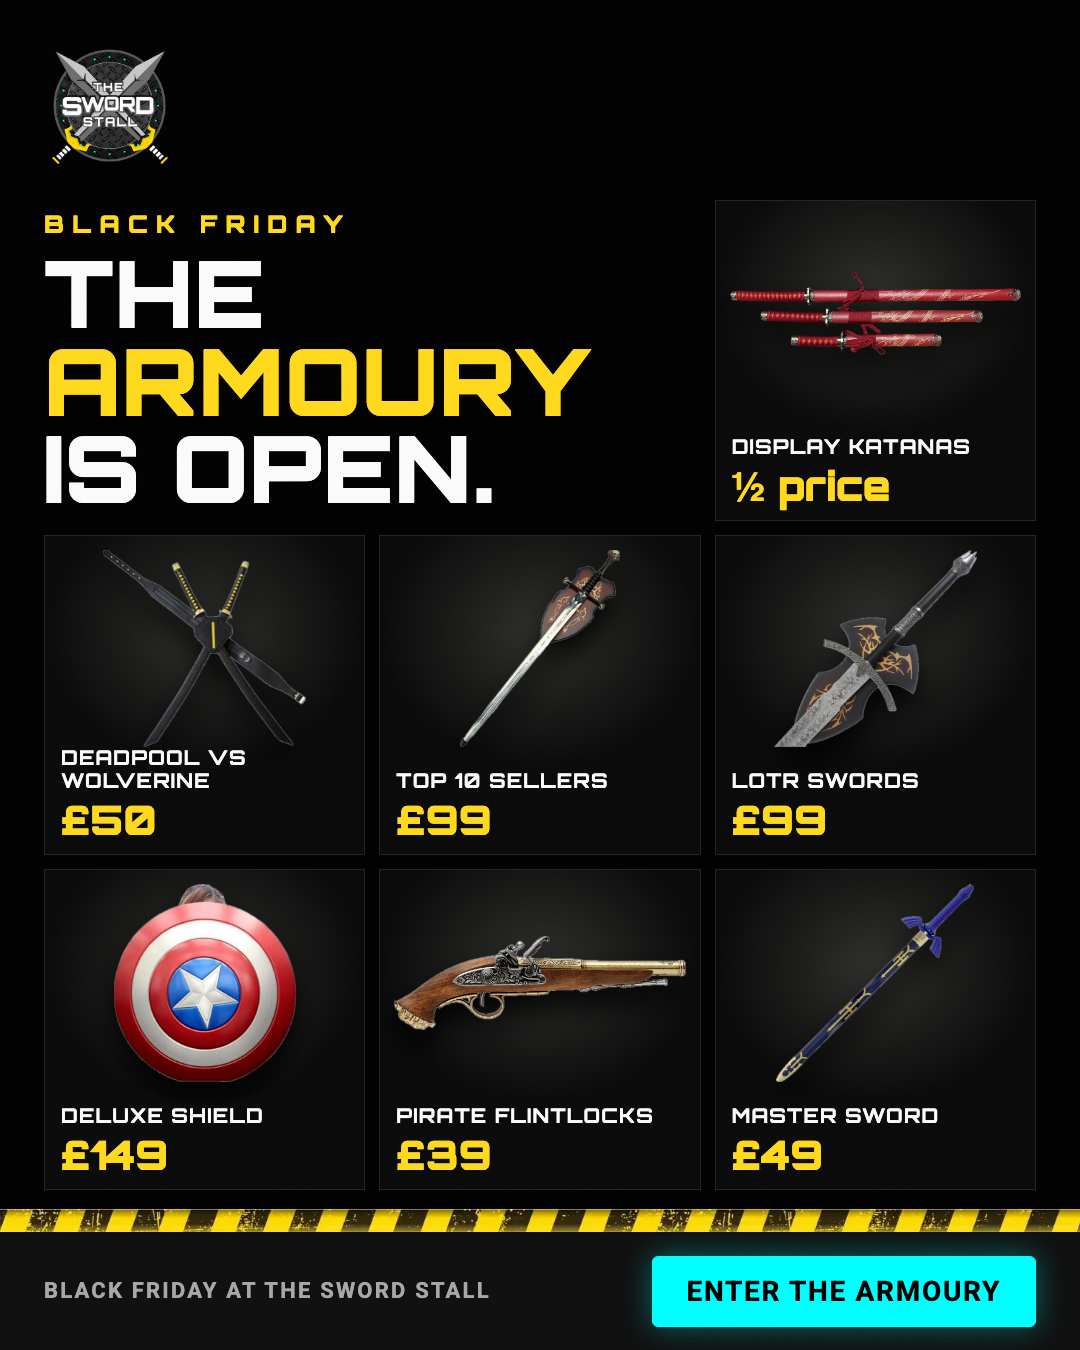
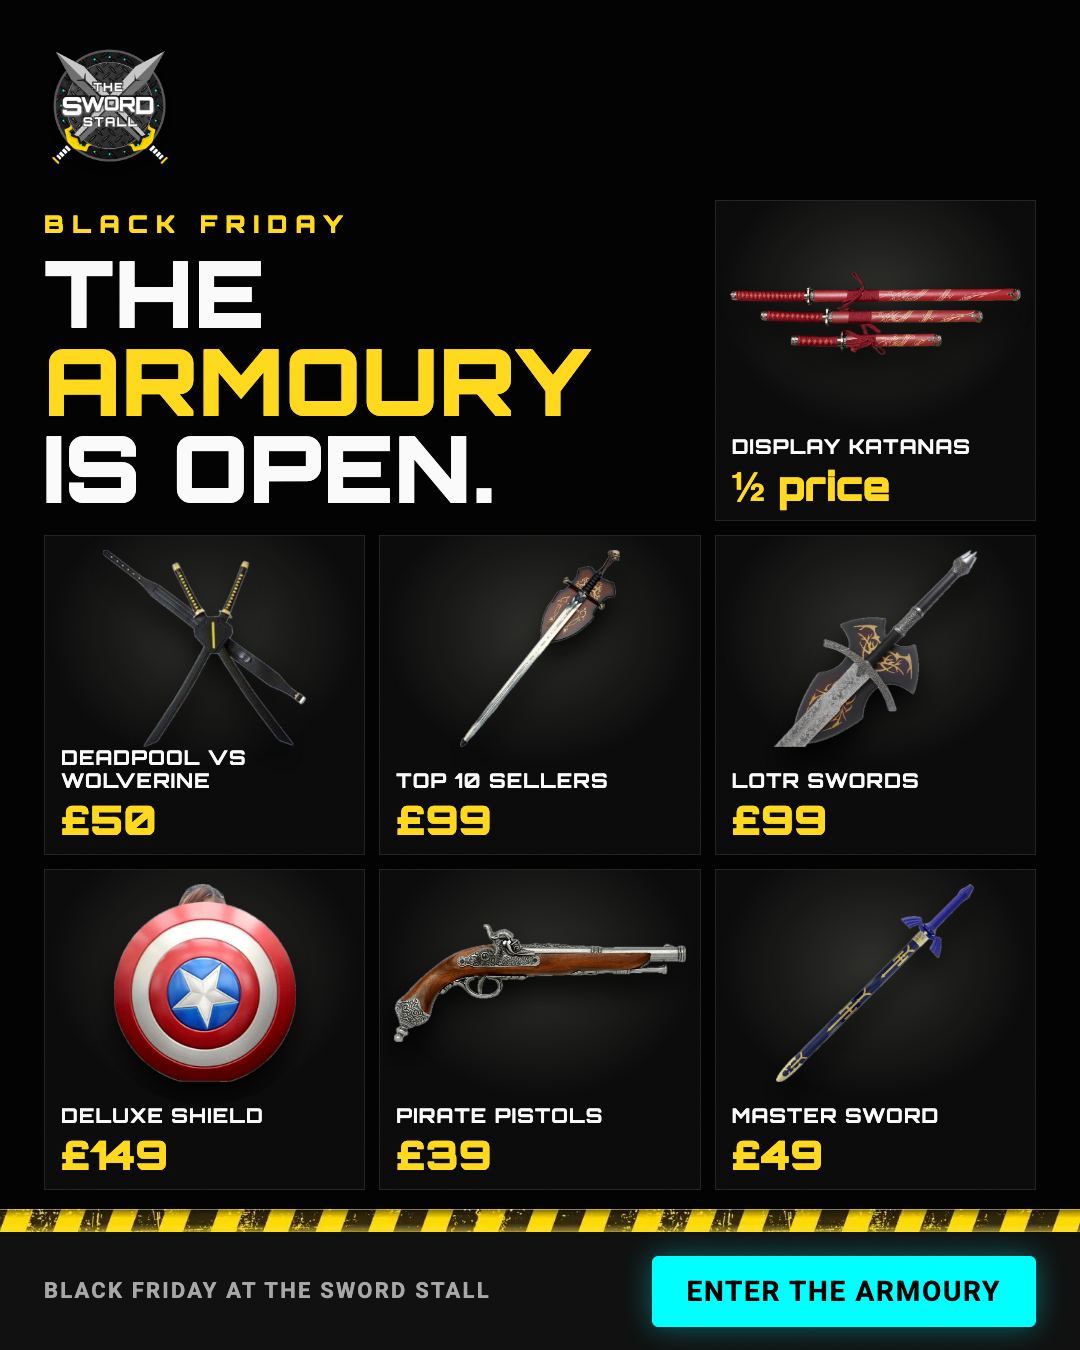
fix(sword-stall): Black Friday pistol statics use the G1013G percussion pistol

Changed region(s): [[0.3667, 0.6844, 0.6417, 0.7778], [0.4583, 0.8089, 0.6111, 0.84]]

diff --git a/outputs/creative/sword-stall/2026-09-29-black-friday-statics/source.html b/outputs/creative/sword-stall/2026-09-29-black-friday-statics/source.html
@@ -191,15 +191,15 @@ body:not(.solo) .ad{margin:0 0 40px}
   <div class="bfband" style="top:420px;transform:rotate(-8deg)"><span>BLACK FRIDAY</span><span class="c">£39</span><span>BLACK FRIDAY</span><span class="c">£39</span><span>BLACK FRIDAY</span></div>
   <img class="logo" src="a/logo.png" alt="">
   <h1 class="h" style="left:200px;right:44px;top:58px;font-size:72px;text-shadow:0 4px 0 #000">Raise the <em>black flag.</em></h1>
-  <img class="prod" src="a/bf_dhb_0.png" alt="" style="left:30px;top:560px;width:900px;transform:rotate(-12deg);z-index:3">
-  <img class="prod" src="a/bf_dhg_2.png" alt="" style="left:150px;top:640px;width:900px;transform:scaleX(-1) rotate(-12deg);z-index:4">
+  <img class="prod" src="a/bf_perc_0.png" alt="" style="left:40px;top:580px;width:900px;transform:rotate(-14deg);z-index:3">
+  <img class="prod" src="a/bf_perc_0.png" alt="" style="left:150px;top:660px;width:900px;transform:scaleX(-1) rotate(-14deg);z-index:4">
   <img class="sparks" src="a/sparks-r.webp" alt="" style="right:0;top:520px;width:340px">
   <div style="left:44px;right:44px;top:990px;display:flex;justify-content:space-between;align-items:flex-end;z-index:5">
-    <div><div style="font-family:var(--font-heading-family);font-weight:700;font-size:34px;text-transform:uppercase">Pirate flintlocks</div><div style="font-size:24px;color:#ddd;margin-top:6px">18th-century replicas. Non-firing.</div></div>
+    <div><div style="font-family:var(--font-heading-family);font-weight:700;font-size:34px;text-transform:uppercase">Pirate pistols</div><div style="font-size:24px;color:#ddd;margin-top:6px">Italy 1825 percussion replica. Non-firing.</div></div>
     <div class="cost"><small>NOW</small><b>£39</b></div>
   </div>
   <div class="tape b"></div>
-  <div class="bar"><span>Black Friday · Brass &amp; gunmetal</span><b class="btn">Shop now</b></div>
+  <div class="bar"><span>Black Friday · Pirate pistols</span><b class="btn">Shop now</b></div>
 </section>
 
 <!-- BF7: ITEM UNLOCKED - OoT Master Sword £49 -->
@@ -232,12 +232,12 @@ body:not(.solo) .ad{margin:0 0 40px}
     <div class="deal"><b>Top 10 sellers</b><span>£99</span></div>
     <div class="deal"><b>LOTR swords</b><span>£99</span></div>
     <div class="deal"><b>Deluxe Cap shield</b><span>£100 off</span></div>
-    <div class="deal"><b>Pirate flintlocks</b><span>£39</span></div>
+    <div class="deal"><b>Pirate pistols</b><span>£39</span></div>
     <div class="deal"><b>OoT Master Sword</b><span>£49</span></div>
   </div>
   <img class="hard" src="a/bf_capcrop.png" alt="" style="left:60px;top:930px;height:240px;clip-path:circle(46% at 50% 54%);transform:rotate(-10deg)">
   <img class="hard" src="a/bf_dpw_0.png" alt="" style="left:360px;top:920px;height:260px">
-  <img class="hard" src="a/bf_dhb_0.png" alt="" style="left:620px;top:990px;width:420px;transform:rotate(-12deg)">
+  <img class="hard" src="a/bf_perc_0.png" alt="" style="left:620px;top:990px;width:420px;transform:rotate(-12deg)">
   <div class="tape b"></div>
   <div class="bar"><span>Black Friday at The Sword Stall</span><b class="btn">Shop the drop</b></div>
 </section>

diff --git a/outputs/creative/sword-stall/2026-09-29-black-friday-statics/source-v2.html b/outputs/creative/sword-stall/2026-09-29-black-friday-statics/source-v2.html
@@ -212,10 +212,10 @@ body:not(.solo) .ad{margin:0 0 40px}
   <div class="pool" style="left:0;right:0;top:200px;height:800px"></div>
   <img class="logo" src="a/logo.png" alt="">
   <h1 class="h" style="left:200px;right:44px;top:62px;font-size:84px;text-shadow:0 5px 0 #000">Yo ho. <em>£39.</em></h1>
-  <img class="prod" src="a/bf_dhg_2.png" alt="" style="left:40px;top:330px;width:1000px;transform:rotate(-6deg);z-index:3">
+  <img class="prod" src="a/bf_perc_0.png" alt="" style="left:40px;top:330px;width:1000px;transform:rotate(-6deg);z-index:3">
   <svg style="left:0;top:0;width:1080px;height:1350px;z-index:4" viewBox="0 0 1080 1350"><path d="M470 560 C 480 610, 470 650, 470 690" fill="none" stroke="#d8c7a0" stroke-width="4"/></svg>
-  <div class="swing" style="left:300px;top:660px;transform:rotate(7deg);transform-origin:50% 44px"><span class="rim"></span><div class="t1">BLACK FRIDAY</div><div class="t2">£39</div><div class="t3">Pirate flintlocks</div></div>
-  <p class="sub" style="left:690px;right:44px;top:780px;font-weight:700;color:#e8e8e8;font-size:28px">18th-century replicas. Brass or gunmetal. Non-firing.</p>
+  <div class="swing" style="left:300px;top:660px;transform:rotate(7deg);transform-origin:50% 44px"><span class="rim"></span><div class="t1">BLACK FRIDAY</div><div class="t2">£39</div><div class="t3">Pirate pistol</div></div>
+  <p class="sub" style="left:690px;right:44px;top:780px;font-weight:700;color:#e8e8e8;font-size:28px">Italy 1825 percussion replica. Non-firing.</p>
   <div class="tape b"></div>
   <div class="bar"><span>Raise the black flag</span><b class="btn">Shop now</b></div>
 </section>
@@ -244,7 +244,7 @@ body:not(.solo) .ad{margin:0 0 40px}
     <div class="tile3"><img src="a/bf_and118_0.png" alt=""><div class="n">Top 10 sellers</div><div class="p">£99</div></div>
     <div class="tile3"><img src="a/bf_witch_0.png" alt=""><div class="n">LOTR swords</div><div class="p">£99</div></div>
     <div class="tile3"><img src="a/bf_capcrop.png" alt="" style="clip-path:circle(46% at 50% 54%)"><div class="n">Deluxe shield</div><div class="p">£149</div></div>
-    <div class="tile3"><img src="a/bf_dhb_0.png" alt=""><div class="n">Pirate flintlocks</div><div class="p">£39</div></div>
+    <div class="tile3"><img src="a/bf_perc_0.png" alt=""><div class="n">Pirate pistols</div><div class="p">£39</div></div>
     <div class="tile3"><img src="a/bf_oot_3.png" alt=""><div class="n">Master Sword</div><div class="p">£49</div></div>
   </div>
   <div class="tape b"></div>
